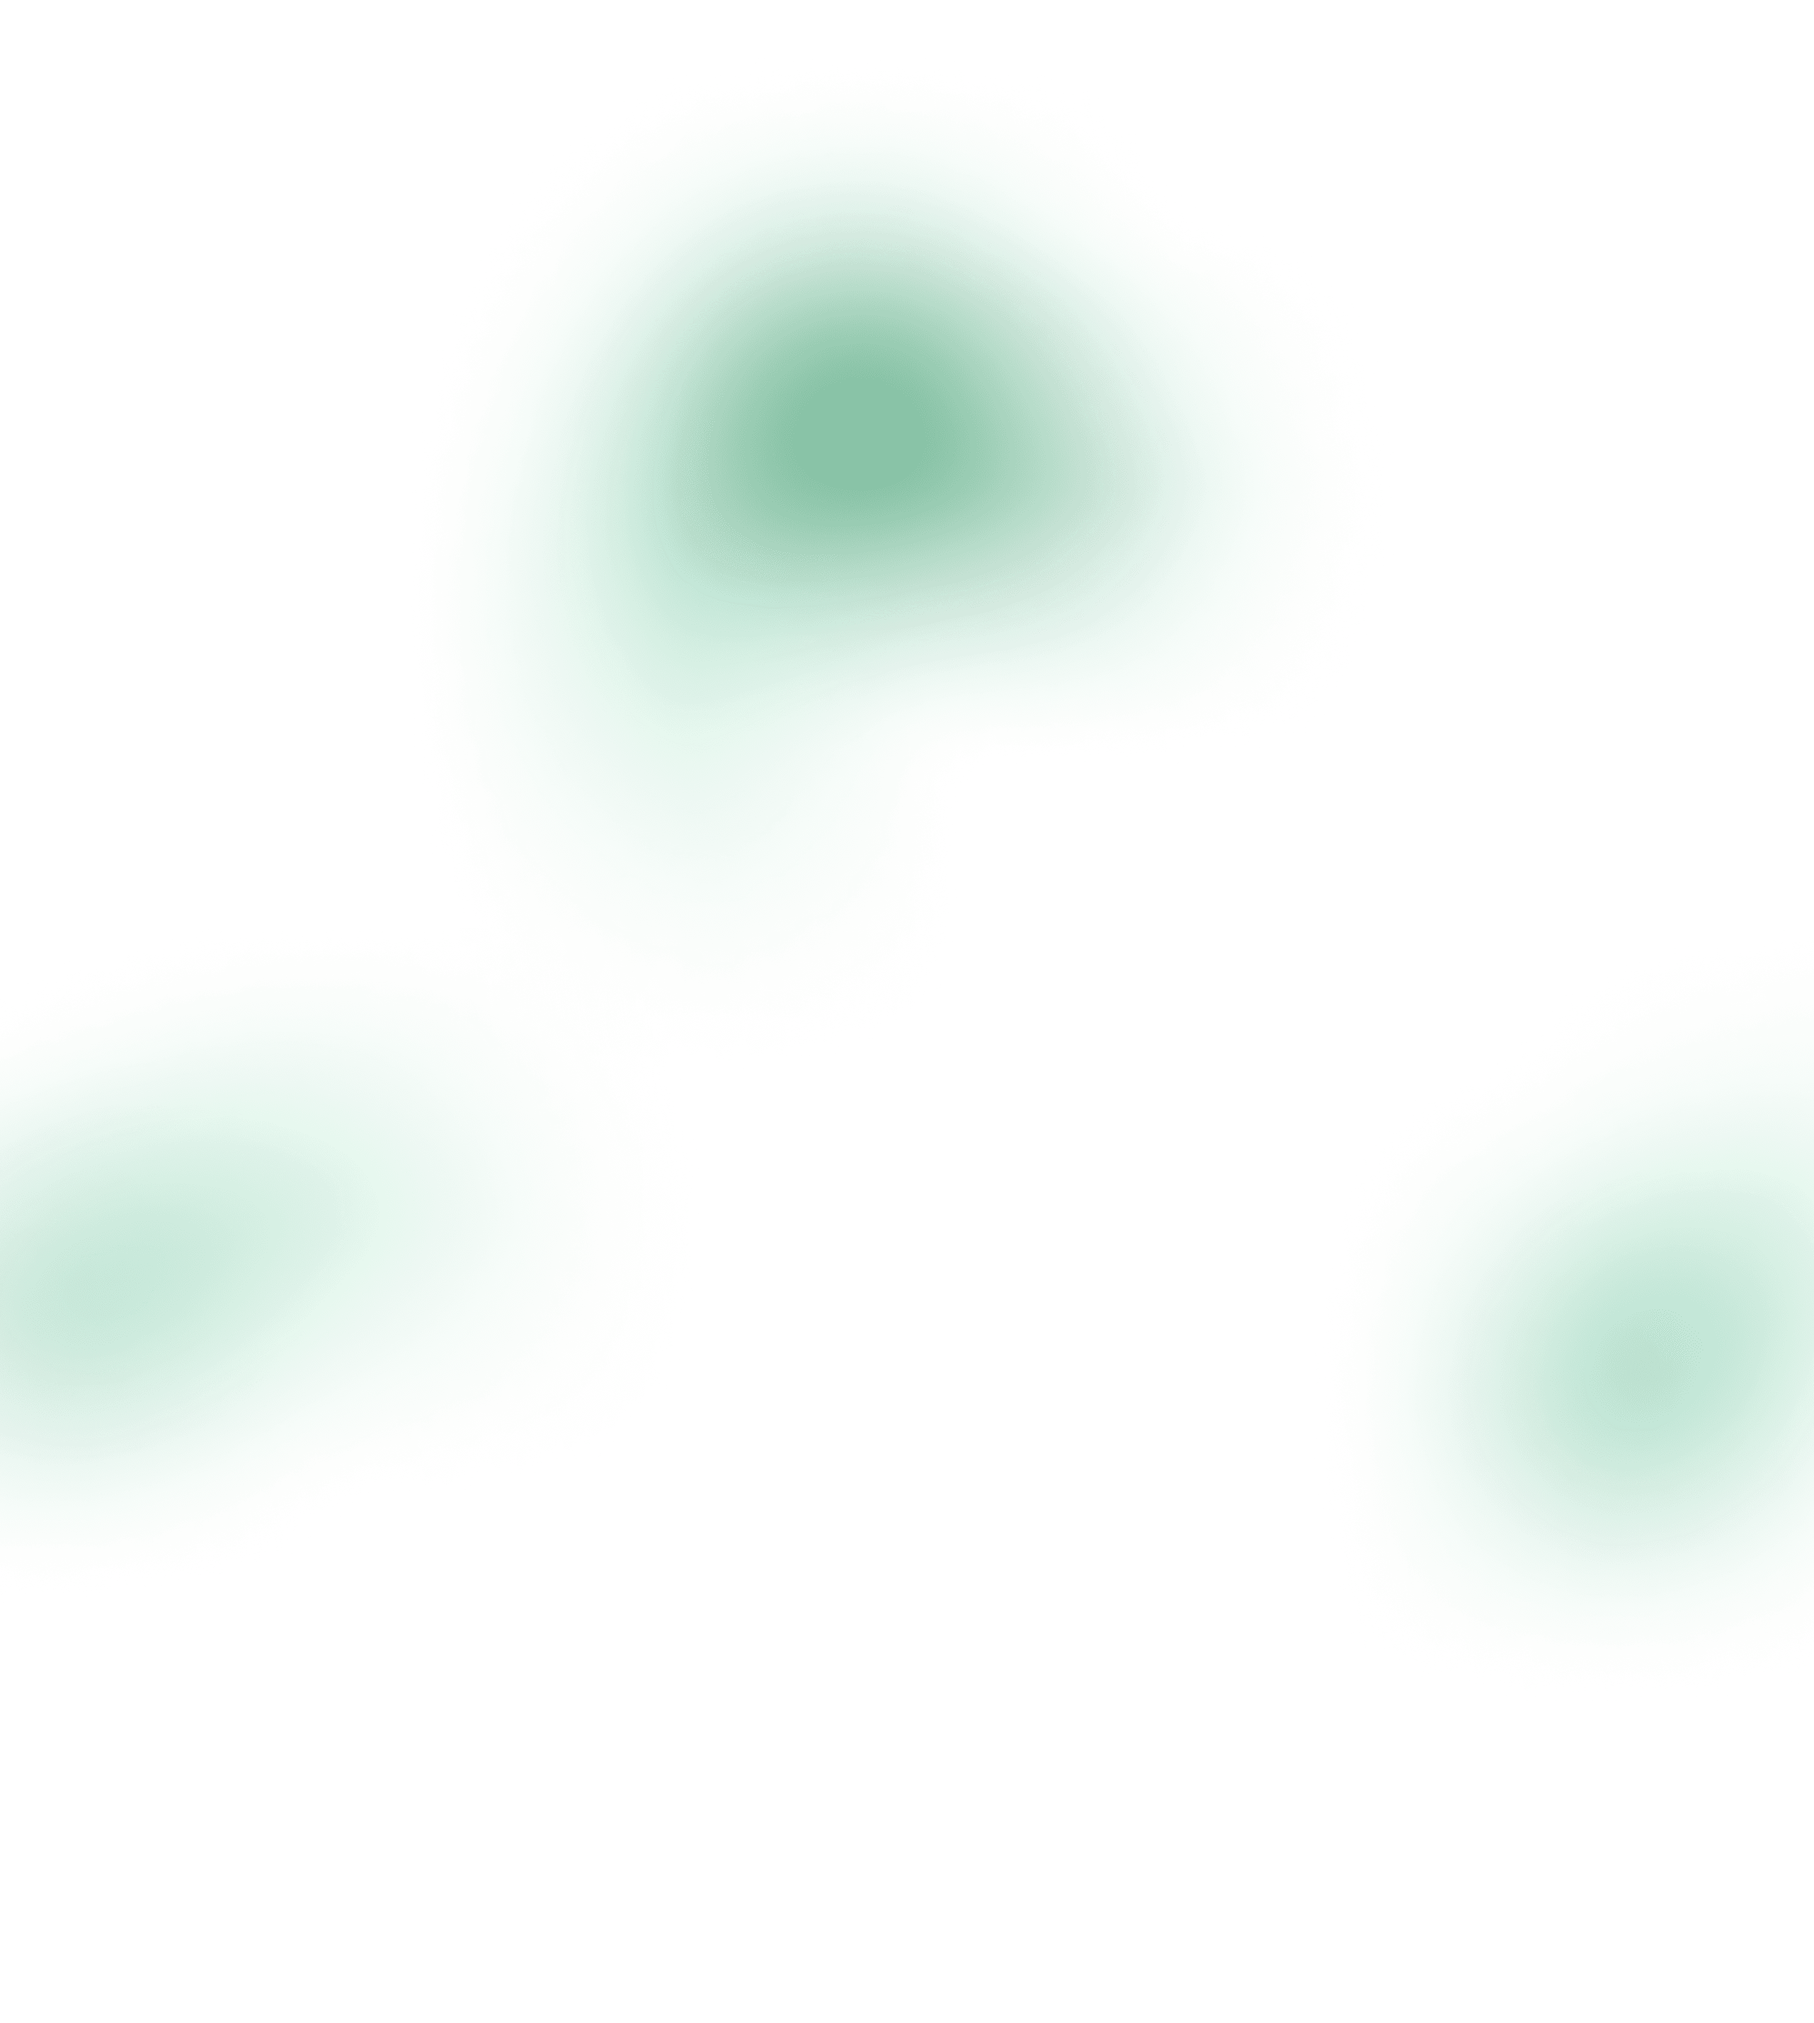
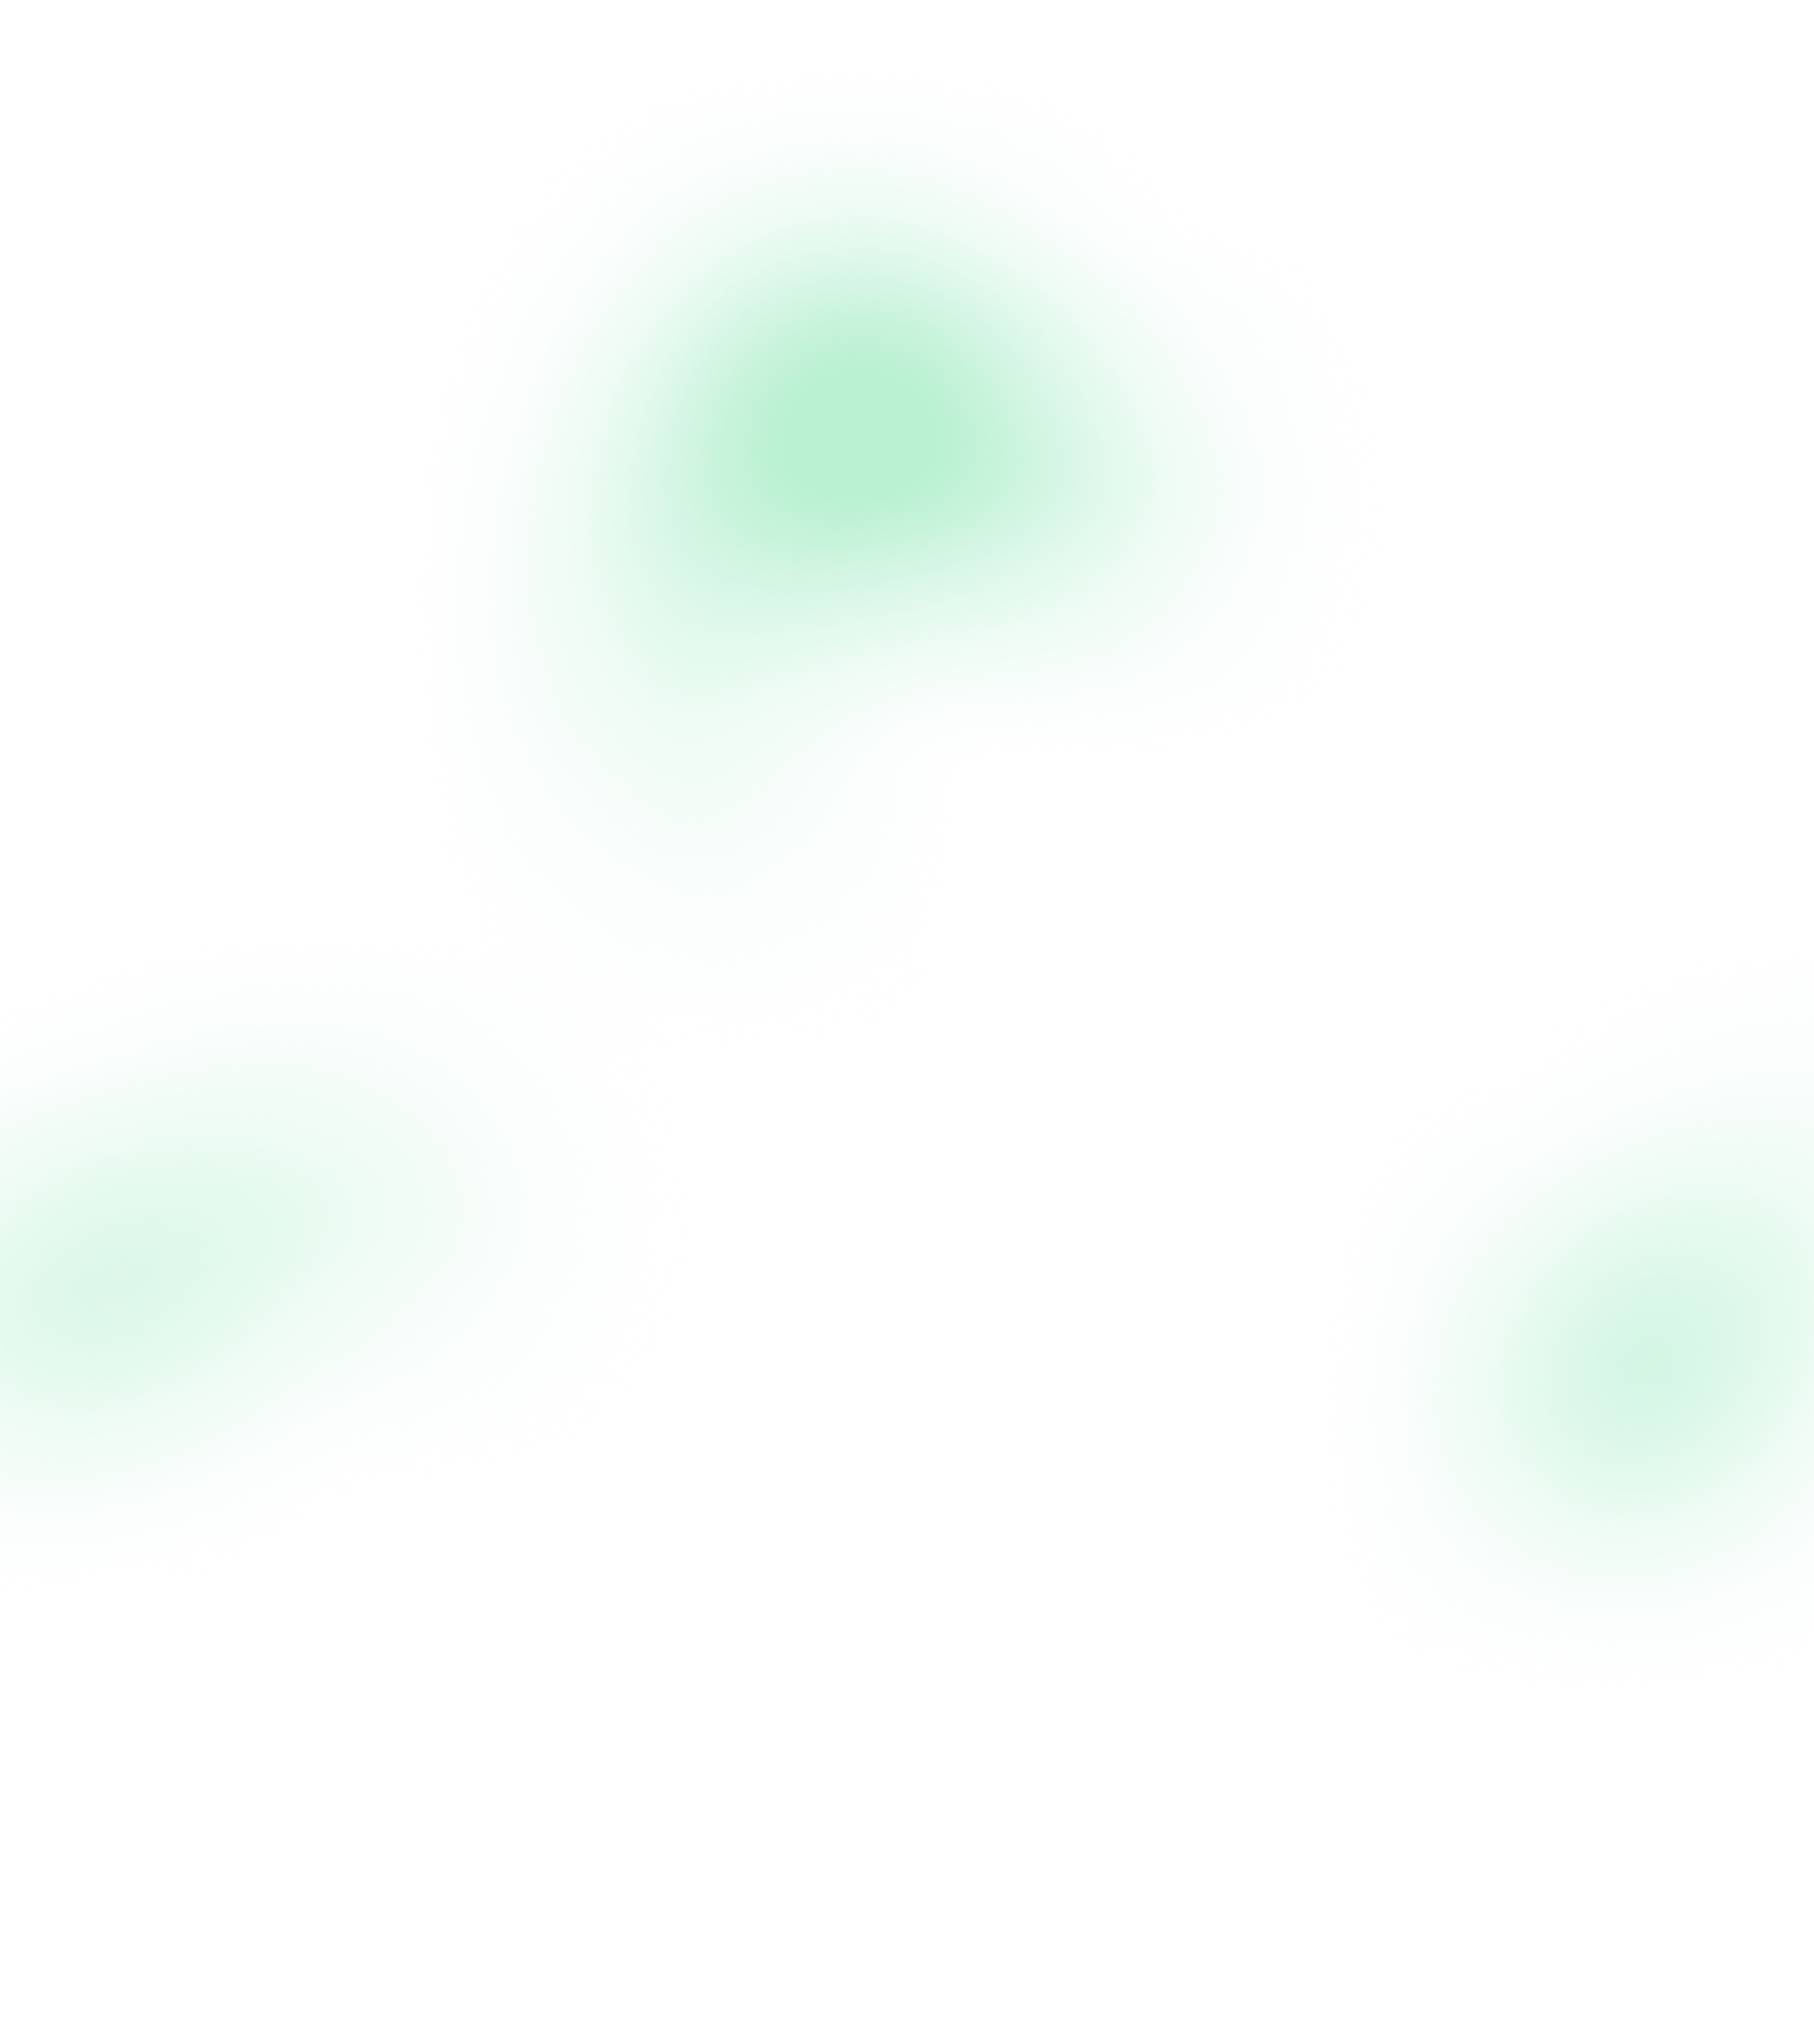
add bg images

Changed region(s): [[0.3438, 0.1245, 0.625, 0.3113], [0.8438, 0.6227, 0.9688, 0.7161], [0.0312, 0.5915, 0.0938, 0.6538]]

diff --git a/src/pages/staking/index.js b/src/pages/staking/index.js
@@ -1,5 +1,4 @@
 import Head from 'next/head';
-import Image from 'next/image';
 import dynamic from 'next/dynamic';
 
 import { serverSideTranslations } from 'next-i18next/serverSideTranslations';
@@ -9,6 +8,7 @@ import MaldivesLayout from 'components/common/layouts/MaldivesLayout';
 import useDarkMode, { THEME_MODE } from 'hooks/useDarkMode';
 
 import { useWindowSize } from 'react-use';
+import styled from 'styled-components';
 
 const CalculateInterest = dynamic(() => import('./components/CalculateInterest.js'), { ssr: false });
 const HeaderStaking = dynamic(() => import('./components/Header.js'), { ssr: false });
@@ -33,21 +33,14 @@ const Reference = () => {
                 <main className="bg-white dark:bg-shadow">
                     <div className="max-w-screen-v3 2xl:max-w-screen-xxl m-auto px-4">
                         <HeaderStaking />
+                        <WhyChooseNamiStaking />
                         <StepStaking isDark={isDark} isMobile={isMobile} />
                         <CalculateInterest />
-                        <WhyChooseNamiStaking />
                     </div>
-                    <section className="relative mt-0 lg:mt-[120px]">
-                        <div className="absolute w-full h-full cursor-pointer">
-                            {isMobile ? (
-                                <Image src="/images/staking/bg_digital_faq_mb.png" layout="fill" objectFit="cover" quality={100} />
-                            ) : (
-                                <Image src="/images/staking/bg_digital_faq.png" layout="fill" objectFit="cover" quality={100} />
-                            )}
-                        </div>
+                    <WrapperAssetFAQ mobile={isMobile} className="relative pt-0  lg:pt-[120px]">
                         <AssetDigitalStaking isMobile={isMobile} />
                         <FAQStaking isDark={isDark} />
-                    </section>
+                    </WrapperAssetFAQ>
                 </main>
             </MaldivesLayout>
         </>
@@ -59,5 +52,12 @@ export const getStaticProps = async ({ locale }) => ({
         ...(await serverSideTranslations(locale, ['common', 'navbar', 'reference', 'broker', 'futures']))
     }
 });
+
+const WrapperAssetFAQ = styled.section`
+    background-image: url(${(props) => (props.mobile ? '/images/staking/bg_digital_faq_mb.png' : '/images/staking/bg_digital_faq.png')});
+    background-position: center center;
+    background-repeat: no-repeat;
+    background-size: 100% 100%;
+`;
 
 export default Reference;

diff --git a/src/pages/staking/components/CalculateInterest.js b/src/pages/staking/components/CalculateInterest.js
@@ -21,14 +21,11 @@ const STAKING_CURRENCIES = [
 ];
 
 const CalculateInterest = () => {
-    const {
-        t,
-        i18n: { language }
-    } = useTranslation();
+    const { t } = useTranslation();
     const [stakingCurrency, setStakingCurrency] = useState(INITIAL_STAKING_CURRENCY);
     const [amountStaking, setAmountStaking] = useState('');
     return (
-        <section className="my-[88px] md:my-[120px] px-3 py-10 md:px-20 md:py-[60px] dark:bg-dark-4 bg-white border-divider dark:border-divider-dark border rounded-xl">
+        <section className="mt-[88px] lg:mt-[118px] px-3 py-10 md:px-20 md:py-[60px] dark:bg-dark-4 bg-white border-divider dark:border-divider-dark border rounded-xl">
             <div className="text-center space-y-3 mb-10 md:mb-[60px]">
                 <div className="text-2xl md:text-5xl font-semibold">Tính toán lợi nhuận</div>
                 <div className="text-sm md:text-base text-txtSecondary dark:text-txtSecondary-dark">

diff --git a/src/pages/staking/components/APYInterestChart.js b/src/pages/staking/components/APYInterestChart.js
@@ -143,9 +143,10 @@ const APYInterestChart = () => {
                 <Chart options={options} series={series} type="area" width="100%" />
 
                 <div className="ml-5 pr-2 flex justify-between">
-                    {TIMER.map((item, key) => {
+                    {TIMER.map((item) => {
                         return (
                             <div
+                                key={`time_${item[language]}`}
                                 className="text-txtSecondary cursor-pointer dark:text-txtSecondary-dark
                                 text-sm rounded-md px-4 py-2 flex items-center border
                             border-divider dark:border-divider-dark"

diff --git a/src/pages/staking/components/FAQ.js b/src/pages/staking/components/FAQ.js
@@ -11,9 +11,10 @@ const FAQStaking = ({ isDark }) => {
     } = useTranslation();
 
     const renderFAQ = useMemo(() => {
-        return FAQ.map((item) => {
+        return FAQ.map((item, key) => {
             return (
                 <CollapseV2
+                    key={`FAQ-${item.content[language]}`}
                     className="w-full divider-bottom lg:last:pb-[120px] last:pb-[80px]"
                     divLabelClassname="w-full justify-between !pb-4 lg:!pb-[21px]"
                     chrevronStyled={{ size: 24, color: isDark ? colors.gray['4'] : colors.gray['15'] }}

diff --git a/src/pages/staking/components/AssetDigital.js b/src/pages/staking/components/AssetDigital.js
@@ -15,6 +15,7 @@ const AssetDigitalStaking = ({ isMobile }) => {
         return ASSET_DIGITAL.map((item) => {
             return (
                 <section
+                    key={`asset-digital-${item.title}`}
                     className="h-full lg:h-[589px] w-full
                     border-[1px] dark:border-[#222940] dark:bg-dark-4 bg-white border-[#dcdfe6] rounded-xl border-solid
                     px-[60px] py-10 lg:py-[80px] flex flex-col justify-center items-center

diff --git a/src/components/common/V2/CollapseV2/index.js b/src/components/common/V2/CollapseV2/index.js
@@ -47,7 +47,6 @@ const index = ({
     }, [reload]);
 
     const handleOpen = () => {
-        console.log('handleOpen')
         if (isCustom) return;
         clearTimeout(timer.current);
         wrapper?.current?.style.height = !open ? list.current.clientHeight + 'px' : 0;
